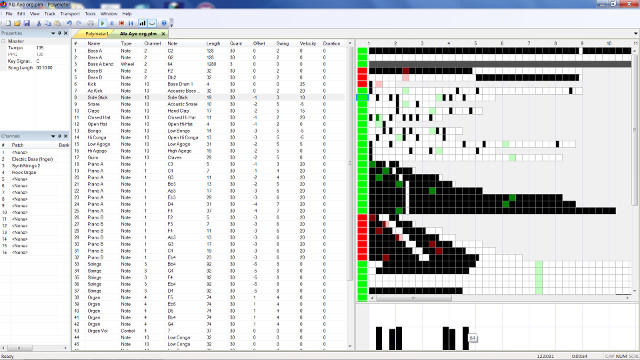
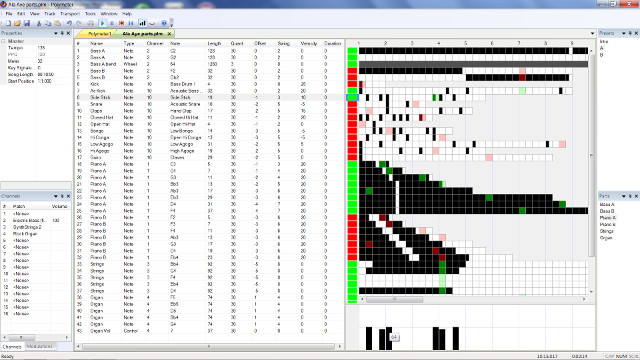
0.0.11.000 web docs

diff --git a/docs/issues.html b/docs/issues.html
@@ -826,7 +826,63 @@
 <TD>07/07/18</TD>
 <TD>done</TD>
 <TD>in track view, for non-note track types, using note edit control's spin buttons unexpectedly shows note names</TD>
+<TD>0.0.10.000</TD>
 <TD>&nbsp;</TD>
+</TR>
+<TR VALIGN=TOP>
+<TD>07/05/18</TD>
+<TD>07/09/18</TD>
+<TD>done</TD>
+<TD>in live view, indicate current position within each part</TD>
+<TD>0.0.11.000</TD>
+<TD>&nbsp;</TD>
+</TR>
+<TR VALIGN=TOP>
+<TD>07/06/18</TD>
+<TD>07/09/18</TD>
+<TD>done</TD>
+<TD>in live view, make font height configurable</TD>
+<TD>0.0.11.000</TD>
+<TD>&nbsp;</TD>
+</TR>
+<TR VALIGN=TOP>
+<TD>07/08/18</TD>
+<TD>07/09/18</TD>
+<TD>done</TD>
+<TD>view type should persist in document</TD>
+<TD>0.0.11.000</TD>
+<TD>&nbsp;</TD>
+</TR>
+<TR VALIGN=TOP>
+<TD>07/08/18</TD>
+<TD>07/09/18</TD>
+<TD>done</TD>
+<TD>on showing live view, select current preset if applicable</TD>
+<TD>0.0.11.000</TD>
+<TD>&nbsp;</TD>
+</TR>
+<TR VALIGN=TOP>
+<TD>07/09/18</TD>
+<TD>07/10/18</TD>
+<TD>done</TD>
+<TD>in live view, make list widths adjustable via dragging their headers; also make widths persistent</TD>
+<TD>0.0.11.000</TD>
+<TD>&nbsp;</TD>
+</TR>
+<TR VALIGN=TOP>
+<TD>07/08/18</TD>
+<TD>07/11/18</TD>
+<TD>done</TD>
+<TD>in live view, solo button should indicate mouse hover</TD>
+<TD>0.0.11.000</TD>
+<TD>&nbsp;</TD>
+</TR>
+<TR VALIGN=TOP>
+<TD>07/09/18</TD>
+<TD>07/11/18</TD>
+<TD>done</TD>
+<TD>in live view, part progress bars should scroll with parts list</TD>
+<TD>0.0.11.000</TD>
 <TD>&nbsp;</TD>
 </TR>
 <TR VALIGN=TOP>
@@ -942,6 +998,14 @@
 <TD>&nbsp;</TD>
 </TR>
 <TR VALIGN=TOP>
+<TD>05/21/18</TD>
+<TD>&nbsp;</TD>
+<TD>hold</TD>
+<TD>if meter is specified, step and song view rulers should show measure:beat instead of just beat</TD>
+<TD>&nbsp;</TD>
+<TD>&nbsp;</TD>
+</TR>
+<TR VALIGN=TOP>
 <TD>05/30/18</TD>
 <TD>&nbsp;</TD>
 <TD>hold</TD>
@@ -966,6 +1030,14 @@
 <TD>&nbsp;</TD>
 </TR>
 <TR VALIGN=TOP>
+<TD>06/04/18</TD>
+<TD>&nbsp;</TD>
+<TD>hold</TD>
+<TD>include live MIDI input in recording; but no way to view or edit it?</TD>
+<TD>&nbsp;</TD>
+<TD>&nbsp;</TD>
+</TR>
+<TR VALIGN=TOP>
 <TD>06/05/18</TD>
 <TD>&nbsp;</TD>
 <TD>hold</TD>
@@ -986,6 +1058,14 @@
 <TD>&nbsp;</TD>
 <TD>hold</TD>
 <TD>controller fill command</TD>
+<TD>&nbsp;</TD>
+<TD>&nbsp;</TD>
+</TR>
+<TR VALIGN=TOP>
+<TD>07/05/18</TD>
+<TD>&nbsp;</TD>
+<TD>hold</TD>
+<TD>change track, part and preset names to title case</TD>
 <TD>&nbsp;</TD>
 <TD>&nbsp;</TD>
 </TR>
@@ -1041,31 +1121,15 @@
 <TD>03/22/18</TD>
 <TD>&nbsp;</TD>
 <TD>todo</TD>
-<TD>modulation of modulation</TD>
+<TD>modulation of modulation; multiple mute modulators per track may be more useful</TD>
 <TD>&nbsp;</TD>
 <TD>&nbsp;</TD>
 </TR>
 <TR VALIGN=TOP>
-<TD>05/21/18</TD>
+<TD>03/22/18</TD>
 <TD>&nbsp;</TD>
 <TD>todo</TD>
-<TD>if meter is specified, step and song view rulers should show measure:beat instead of just beat</TD>
-<TD>&nbsp;</TD>
-<TD>&nbsp;</TD>
-</TR>
-<TR VALIGN=TOP>
-<TD>06/04/18</TD>
-<TD>&nbsp;</TD>
-<TD>todo</TD>
-<TD>include live MIDI input in recording; but no way to view or edit it?</TD>
-<TD>&nbsp;</TD>
-<TD>&nbsp;</TD>
-</TR>
-<TR VALIGN=TOP>
-<TD>07/05/18</TD>
-<TD>&nbsp;</TD>
-<TD>todo</TD>
-<TD>change track, part and preset names to title case</TD>
+<TD>overdubbing; add dubs to an existing recording</TD>
 <TD>&nbsp;</TD>
 <TD>&nbsp;</TD>
 </TR>
@@ -1074,22 +1138,6 @@
 <TD>&nbsp;</TD>
 <TD>todo</TD>
 <TD>cut and paste of tracks with modulations often behaves unexpectedly; store modulators as UIDs instead of indices</TD>
-<TD>&nbsp;</TD>
-<TD>&nbsp;</TD>
-</TR>
-<TR VALIGN=TOP>
-<TD>07/05/18</TD>
-<TD>&nbsp;</TD>
-<TD>todo</TD>
-<TD>in live view, indicate position within each part (or within each loop length?)</TD>
-<TD>&nbsp;</TD>
-<TD>&nbsp;</TD>
-</TR>
-<TR VALIGN=TOP>
-<TD>07/06/18</TD>
-<TD>&nbsp;</TD>
-<TD>todo</TD>
-<TD>make live view fonts configurable, or least make font height configurable</TD>
 <TD>&nbsp;</TD>
 <TD>&nbsp;</TD>
 </TR>

diff --git a/docs/download.html b/docs/download.html
@@ -34,8 +34,8 @@
 <h3>Polymeter Application:</h3>
 
 <ul>
-<li><a href="https://github.com/victimofleisure/Polymeter/releases/download/0.0.10.001/polymeter-0.0.10.001-bin-x64.zip">Polymeter for 64-bit Windows</a>
-<li><a href="https://github.com/victimofleisure/Polymeter/releases/download/0.0.10.001/polymeter-0.0.10.001-bin.zip">Polymeter for 32-bit Windows</a>
+<li><a href="https://github.com/victimofleisure/Polymeter/releases/download/0.0.11.000/polymeter-0.0.11.000-bin-x64.zip">Polymeter for 64-bit Windows</a>
+<li><a href="https://github.com/victimofleisure/Polymeter/releases/download/0.0.11.000/polymeter-0.0.11.000-bin.zip">Polymeter for 32-bit Windows</a>
 </ul>
 
 <p>If you want an installer, download one of the above packages; otherwise, see below. You're probably running 64-bit Windows, in which case you want the 64-bit package. 
@@ -45,8 +45,8 @@
 <a name="portable"><h3>Polymeter Portable Application (no installer):</h3>
 
 <ul>
-<li><a href="https://github.com/victimofleisure/Polymeter/releases/download/0.0.10.001/polymeter-0.0.10.001-portable-x64.zip">Portable Polymeter for 64-bit Windows</a>
-<li><a href="https://github.com/victimofleisure/Polymeter/releases/download/0.0.10.001/polymeter-0.0.10.001-portable.zip">Portable Polymeter for 32-bit Windows</a>
+<li><a href="https://github.com/victimofleisure/Polymeter/releases/download/0.0.11.000/polymeter-0.0.11.000-portable-x64.zip">Portable Polymeter for 64-bit Windows</a>
+<li><a href="https://github.com/victimofleisure/Polymeter/releases/download/0.0.11.000/polymeter-0.0.11.000-portable.zip">Portable Polymeter for 32-bit Windows</a>
 </ul>
 
 <p>The portable app has NO INSTALLER. If you want an installer, download the regular app above.
@@ -56,7 +56,7 @@
 <h3>Polymeter Source:</h3>
 
 <ul>
-<li><a href="https://github.com/victimofleisure/Polymeter/archive/0.0.10.001.zip">Polymeter source code</a>
+<li><a href="https://github.com/victimofleisure/Polymeter/archive/0.0.11.000.zip">Polymeter source code</a>
 </ul>
 
 <hr>

diff --git a/docs/downloadGitHub.html b/docs/downloadGitHub.html
@@ -34,8 +34,8 @@
 <h3>Polymeter Application:</h3>
 
 <ul>
-<li><a href="https://github.com/victimofleisure/Polymeter/releases/download/0.0.10.001/polymeter-0.0.10.001-bin-x64.zip">Polymeter for 64-bit Windows</a>
-<li><a href="https://github.com/victimofleisure/Polymeter/releases/download/0.0.10.001/polymeter-0.0.10.001-bin.zip">Polymeter for 32-bit Windows</a>
+<li><a href="https://github.com/victimofleisure/Polymeter/releases/download/0.0.11.000/polymeter-0.0.11.000-bin-x64.zip">Polymeter for 64-bit Windows</a>
+<li><a href="https://github.com/victimofleisure/Polymeter/releases/download/0.0.11.000/polymeter-0.0.11.000-bin.zip">Polymeter for 32-bit Windows</a>
 </ul>
 
 <p>If you want an installer, download one of the above packages; otherwise, see below. You're probably running 64-bit Windows, in which case you want the 64-bit package. 
@@ -45,8 +45,8 @@
 <a name="portable"><h3>Polymeter Portable Application (no installer):</h3>
 
 <ul>
-<li><a href="https://github.com/victimofleisure/Polymeter/releases/download/0.0.10.001/polymeter-0.0.10.001-portable-x64.zip">Portable Polymeter for 64-bit Windows</a>
-<li><a href="https://github.com/victimofleisure/Polymeter/releases/download/0.0.10.001/polymeter-0.0.10.001-portable.zip">Portable Polymeter for 32-bit Windows</a>
+<li><a href="https://github.com/victimofleisure/Polymeter/releases/download/0.0.11.000/polymeter-0.0.11.000-portable-x64.zip">Portable Polymeter for 64-bit Windows</a>
+<li><a href="https://github.com/victimofleisure/Polymeter/releases/download/0.0.11.000/polymeter-0.0.11.000-portable.zip">Portable Polymeter for 32-bit Windows</a>
 </ul>
 
 <p>The portable app has NO INSTALLER. If you want an installer, download the regular app above.
@@ -56,7 +56,7 @@
 <h3>Polymeter Source:</h3>
 
 <ul>
-<li><a href="https://github.com/victimofleisure/Polymeter/archive/0.0.10.001.zip">Polymeter source code</a>
+<li><a href="https://github.com/victimofleisure/Polymeter/archive/0.0.11.000.zip">Polymeter source code</a>
 </ul>
 
 <hr>

diff --git a/docs/screenshots.html b/docs/screenshots.html
@@ -33,7 +33,11 @@
 
 <p>Click for larger image.
 
-<p><a href="images/screenshots/polymeter-screenshot.png"><img src="images/screenshots/polymeter-screenshot.jpg" width=640 height=360" alt="Polymeter MIDI sequencer screenshot"></a>
+<p><a href="images/screenshots/polymeter-screenshot.png"><img src="images/screenshots/polymeter-screenshot.jpg" width=640 height=360" alt="Polymeter MIDI sequencer screenshot (Track view)"></a>
+
+<p><a href="images/screenshots/polymeter-screenshot-song-view.png"><img src="images/screenshots/polymeter-screenshot-song-view.jpg" width=640 height=360" alt="Polymeter MIDI sequencer screenshot (Song view)"></a>
+
+<p><a href="images/screenshots/polymeter-screenshot-live-view.png"><img src="images/screenshots/polymeter-screenshot-live-view.jpg" width=640 height=360" alt="Polymeter MIDI sequencer screenshot (Live view)"></a>
 
 <!--  content stops HERE  -->
 </div>

diff --git a/docs/relnotes.html b/docs/relnotes.html
@@ -31,6 +31,17 @@
 
 <h1>Release Notes</h1>
 
+<h3>0.0.11.000 &emsp;<small>07/11/2018</small></h3>  
+
+<p><ol>
+<li>The view type (Track, Song, or Live) now persists in the document.
+<li>The Live view now has progress bars that indicate the current position within each part.
+<li>The Live view's font height is now configurable via the options.
+<li>On switching to the Live view, the current preset is now selected if applicable.
+<li>In the Live view, the widths of the Presets and Parts lists can now be adjusted by dragging their headers, and also persist.
+<li>In the Live view, the solo button now indicates mouse hover.
+</ol>
+
 <h3>0.0.10.001 &emsp;<small>07/08/2018</small></h3>  
 
 <p><ol>

diff --git a/docs/index.html b/docs/index.html
@@ -39,9 +39,13 @@ Polymeter is a MIDI sequencer for music that's in multiple prime meters (1, 2, 3
 
 <h2>News</h2>
 
+<p><b>July 11, 2018</b>
+
+<p>Version 0.0.11 adds functionality to the Live view, including per-part progress bars. It's available for <a href="download.html">download</a>; for details, check the <a href="relnotes.html">release notes</a>.
+
 <p><b>July 8, 2018</b>
 
-<p>Version 0.0.10 adds various small features and fixes some bugs. It's available for <a href="download.html">download</a>; for details, check the <a href="relnotes.html">release notes</a>.
+<p>Version 0.0.10 adds various small features and fixes some bugs.
 
 <p><b>July 5, 2018</b>
 
